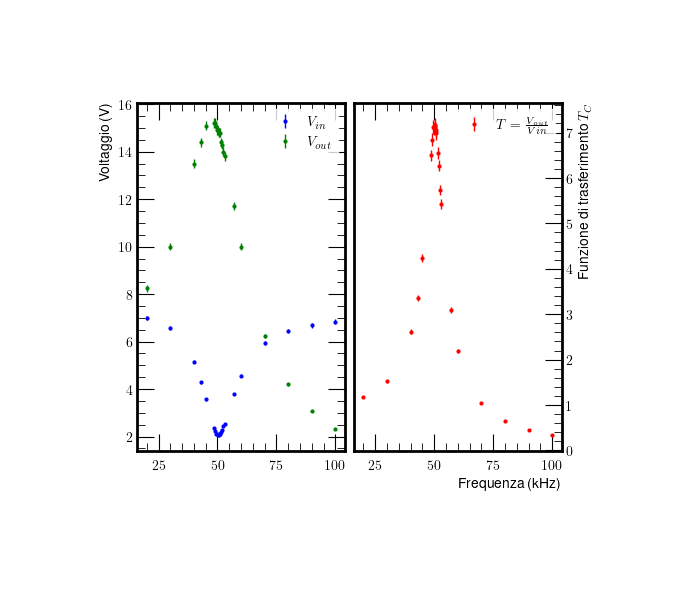
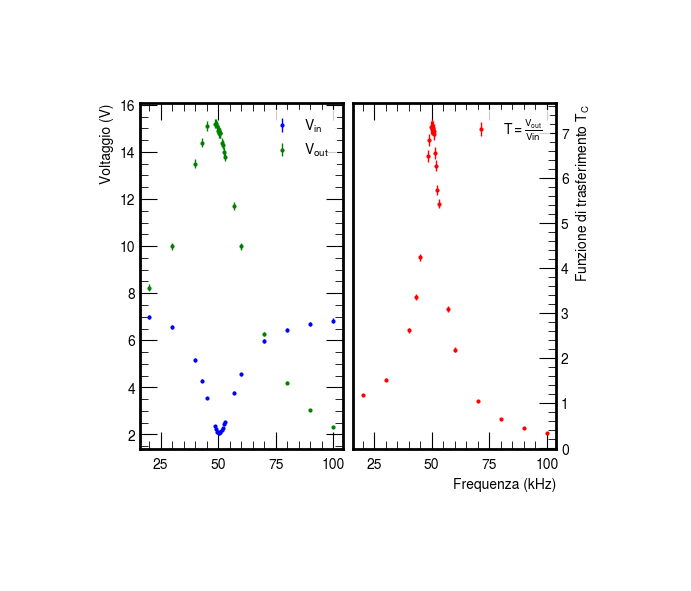
codice

diff --git a/RLC freq/mari/capiC.py b/RLC freq/mari/capiC.py
@@ -6,7 +6,7 @@ import mplhep as hep
 from cycler import cycler
 import matplotlib.colors as colors
 import multiprocessing.pool
-
+import pandas as pd
 
 # settaggio globale grafici    
 #print(plt.style.available)
@@ -103,7 +103,7 @@ NJ = 20
 NK = 20
 
 # Input file name
-file = 'RLC_Cres'   # seleziono per fit su C
+file = 'passabasso'   # seleziono per fit su C
 # file = 'RLC_Rres'   # seleziono per fit su R
 #inputname = './Analisi RLC in frequenza Python/'+file+'.txt'
 inputname= './'+file+'.txt'
@@ -114,8 +114,8 @@ frfit1 = 100.0
 
 # Initial parameter values
 Ainit= 0.95
-Binit =  2.0 * np.pi *51000.  # Hz
-Cinit = 10. # Hz
+Binit =  1478000  # Hz
+Cinit = 9.5 # Hz
 
 # Assumed reading errors
 letturaV = 0.1*0.41
@@ -123,8 +123,15 @@ errscalaV = 0.03*0.41
 
 
 #### LOAD DATA
-    
-
+df = pd.read_csv(inputname, delimiter='\t', decimal='.')
+fr = np.array(df['f_(kHz)'].values * 1e3)  # f in Hz
+Vin = np.array(df['Vin_(V)'].values)
+Vo = np.array(df['Vout_(V)'].values)
+A = Vo / Vin  
+#phi = 2*np.pi*fr*np.array(df['Dt_(ns)'].values[:]*1e-9)
+Vdiv_in = np.array(df['scala_Vin_(mV)'].values*10**-3)[:] #divisioni-FS del Vin
+VdivC = np.array(df['scala_Vout_(V)'].values)[:] #divisioni-FS del Vout
+'''
 # Read data from the input file
 data = np.loadtxt(inputname)
 fr = data[:, 0] #frequenze
@@ -132,7 +139,7 @@ Vin = data[:, 1] #Vin
 Vo = data[:, 2] #Vout
 Vdiv_in = data[:, 3] #divisioni-FS del Vin
 VdivC = data[:, 4] #divisioni-FS del Vout
-
+'''
 # Number of points to fit
 # va a contare il numero di frequenze nel vettore fr che siano maggiori di zero
 N = len(fr[fr > 0])
@@ -143,7 +150,7 @@ eVin = np.sqrt((letturaV * Vdiv_in)**2 + (errscalaV * Vin)**2)
 
 # Calculate the transfer function
 TR = Vo / Vin
-eTR = TR * np.sqrt((eVo / Vo)**2 + (eVin / Vin)**2) ######## ??????? + 2 * (errscalaV**2))
+eTR = TR * np.sqrt((eVo / Vo)**2 + (eVin / Vin)**2) 
 
 # Plot Vin and Vout vs. f e the transfer function vs. f
 
@@ -174,8 +181,8 @@ plt.show()
 
 # Perform the fit
 
-popt, pcov = curve_fit(fitf_C, fr, TR, p0=[Ainit, Binit, Cinit], method='lm', sigma=eTR, absolute_sigma=True)
-
+#popt, pcov = curve_fit(fitf_C, fr, TR, p0=[Ainit, Binit, Cinit], method='lm', sigma=eTR, absolute_sigma=True)
+popt, pcov = curve_fit(fitf_C, fr, TR, method='lm', sigma=eTR, absolute_sigma=True)
 """
 POPT: Vettore con la stima dei parametri dal fit
 PCOV: Matrice delle covarianze
@@ -433,6 +440,3 @@ plt.savefig(file+'_4'+'.png',
             dpi = 100)
 
 plt.show()
-
-
-

diff --git a/RLC freq/mari/passabasso.py b/RLC freq/mari/passabasso.py
@@ -25,7 +25,7 @@ f = np.array(df['f_(kHz)'].values * 1e3)  # f in Hz
 v_in = np.array(df['Vin_(V)'].values)
 v_out = np.array(df['Vout_(V)'].values)
 A = v_out / v_in  
-phi = 2*np.pi*f*np.array(df['Dt_(ns)'].values[:]*1e-9)
+#phi = 2*np.pi*f*np.array(df['Dt_(ns)'].values[:]*1e-9)
 v_fs_in = np.array(df['scala_Vin_(mV)'].values*10**-3)[:]
 v_fs_out = np.array(df['scala_Vout_(V)'].values)[:]
 #phi_fs = 2*np.pi*f*np.array(df['scala_t_(ns)'].values[:]*1e-9)
@@ -41,17 +41,18 @@ phi_errL = 0
 f_0 = 235000
 fdelta = max(A)/np.sqrt(2)
 
-Ainit= 0.95
-Binit =  2.0 * np.pi *233000.  # Hz
-Cinit = 10. # Hz
-'''
+#Ainit= 0.95
+#Binit =  2.0 * np.pi *233000.  # Hz
+#Cinit = 10. # Hz
 
 
-popt, pcov = curve_fit(fitf_R, f, A, p0=[Ainit, Binit, Cinit], sigma=sigma_A, absolute_sigma=True)
+
+#popt, pcov = curve_fit(fitf_R, f, A, p0=[Ainit, Binit, Cinit], sigma=sigma_A, absolute_sigma=True)
+popt, pcov = curve_fit(fitf_R, f, A, sigma=sigma_A, absolute_sigma=True)
 
 perr = np.sqrt(np.diag(pcov))
 print( ' ampiezza = {a:.3f} +/- {b:.3f} \n omega0 = {c:.1f} +/- {d:.1f} kHz \n Q-valore = {e:.1f} +/- {f:.1f}'.format(a=popt[0], b=perr[0],c=popt[1]/(1000*2*np.pi),d=perr[1]/1000,e=popt[2],f=perr[2]))
-'''
+
 
 plt.errorbar(f, A, yerr=sigma_A, fmt='o',ms=5, color='blue')
 plt.xscale('log')
@@ -68,5 +69,5 @@ plt.errorbar(f, v_out, yerr=sigma_A, fmt='o',ms=5, color='red', label='Vout')
 plt.legend()
 plt.show()
 
-plt.errorbar(f, phi, yerr=sigma_A, fmt='o',ms=5, color='blue')
+#plt.errorbar(f, phi, yerr=sigma_A, fmt='o',ms=5, color='blue')
 plt.show()

diff --git a/RLC freq/prof/RLC_Cres_v1.py b/RLC freq/prof/RLC_Cres_v1.py
@@ -25,7 +25,7 @@ params = {'legend.fontsize': '10',
          'xtick.labelsize':'10',
          'ytick.labelsize':'10',
          'lines.linewidth': '1',
-         'text.usetex': True,
+         'text.usetex': False,
 #         'axes.formatter.limits': '-5, -3',
          'axes.formatter.min_exponent': '2',
 #         'axes.prop_cycle': cycler('color', 'bgrcmyk')

diff --git a/RLC freq/prof/RLC_Rres_v0.py b/RLC freq/prof/RLC_Rres_v0.py
@@ -25,7 +25,7 @@ params = {'legend.fontsize': '10',
          'xtick.labelsize':'10',
          'ytick.labelsize':'10',
          'lines.linewidth': '1',
-         'text.usetex': True,
+         'text.usetex': False,
 #         'axes.formatter.limits': '-5, -3',
          'axes.formatter.min_exponent': '2',
 #         'axes.prop_cycle': cycler('color', 'bgrcmyk')
